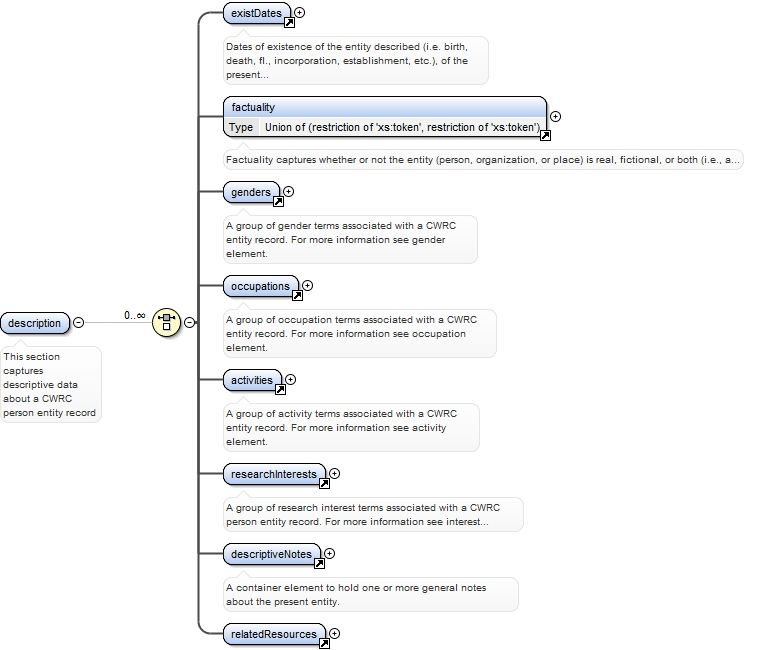
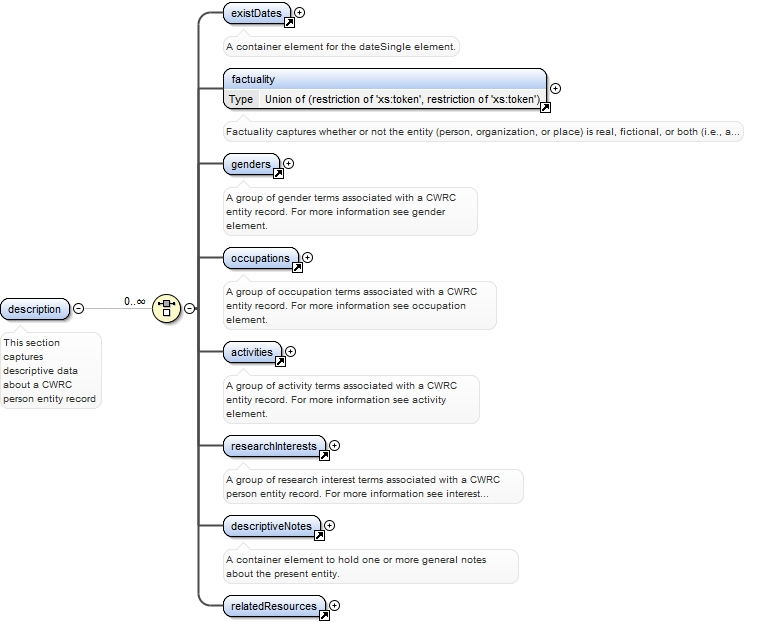
entities.rng interface annotation code changes [MRB]

Changed region(s): [[0.2399, 0.0, 0.9596, 1.0], [0.0, 0.4582, 0.1199, 0.672], [0.1799, 0.4582, 0.2399, 0.5193]]

diff --git a/schemas/documentation/entities/index.html b/schemas/documentation/entities/index.html
@@ -2280,7 +2280,21 @@ var modelBoxes= new Array('model_cwrc',
                                  </tr>
                                  <tr>
                                     <td class="firstColumn">enumeration</td>
-                                    <td width="30%"><b>ceww:earlyWomenWriter</b></td>
+                                    <td width="30%"><b>critic</b></td>
+                                    <td>
+                                       <div class="annotation"></div>
+                                    </td>
+                                 </tr>
+                                 <tr>
+                                    <td class="firstColumn">enumeration</td>
+                                    <td width="30%"><b>canwwr:creator</b></td>
+                                    <td>
+                                       <div class="annotation"></div>
+                                    </td>
+                                 </tr>
+                                 <tr>
+                                    <td class="firstColumn">enumeration</td>
+                                    <td width="30%"><b>canwwr:critic</b></td>
                                     <td>
                                        <div class="annotation"></div>
                                     </td>
@@ -2309,20 +2323,6 @@ var modelBoxes= new Array('model_cwrc',
                                  <tr>
                                     <td class="firstColumn">enumeration</td>
                                     <td width="30%"><b>orl:MW</b></td>
-                                    <td>
-                                       <div class="annotation"></div>
-                                    </td>
-                                 </tr>
-                                 <tr>
-                                    <td class="firstColumn">enumeration</td>
-                                    <td width="30%"><b>canwwr:creator</b></td>
-                                    <td>
-                                       <div class="annotation"></div>
-                                    </td>
-                                 </tr>
-                                 <tr>
-                                    <td class="firstColumn">enumeration</td>
-                                    <td width="30%"><b>canwwr:critic</b></td>
                                     <td>
                                        <div class="annotation"></div>
                                     </td>
@@ -2364,13 +2364,13 @@ var modelBoxes= new Array('model_cwrc',
     </span><span class="tEl">&lt;xs:restriction</span><span class="tAN"> base=</span><span class="tAV">"xs:token"</span><span class="tEl">&gt;</span><span class="tI">
       </span><span class="tEl">&lt;xs:enumeration</span><span class="tAN"> value=</span><span class="tAV">"creator"</span><span class="tEl">/&gt;</span><span class="tI">
       </span><span class="tEl">&lt;xs:enumeration</span><span class="tAN"> value=</span><span class="tAV">"writer"</span><span class="tEl">/&gt;</span><span class="tI">
-      </span><span class="tEl">&lt;xs:enumeration</span><span class="tAN"> value=</span><span class="tAV">"ceww:earlyWomenWriter"</span><span class="tEl">/&gt;</span><span class="tI">
+      </span><span class="tEl">&lt;xs:enumeration</span><span class="tAN"> value=</span><span class="tAV">"critic"</span><span class="tEl">/&gt;</span><span class="tI">
+      </span><span class="tEl">&lt;xs:enumeration</span><span class="tAN"> value=</span><span class="tAV">"canwwr:creator"</span><span class="tEl">/&gt;</span><span class="tI">
+      </span><span class="tEl">&lt;xs:enumeration</span><span class="tAN"> value=</span><span class="tAV">"canwwr:critic"</span><span class="tEl">/&gt;</span><span class="tI">
       </span><span class="tEl">&lt;xs:enumeration</span><span class="tAN"> value=</span><span class="tAV">"orl:BWW"</span><span class="tEl">/&gt;</span><span class="tI">
       </span><span class="tEl">&lt;xs:enumeration</span><span class="tAN"> value=</span><span class="tAV">"orl:IBW"</span><span class="tEl">/&gt;</span><span class="tI">
       </span><span class="tEl">&lt;xs:enumeration</span><span class="tAN"> value=</span><span class="tAV">"orl:IWW"</span><span class="tEl">/&gt;</span><span class="tI">
       </span><span class="tEl">&lt;xs:enumeration</span><span class="tAN"> value=</span><span class="tAV">"orl:MW"</span><span class="tEl">/&gt;</span><span class="tI">
-      </span><span class="tEl">&lt;xs:enumeration</span><span class="tAN"> value=</span><span class="tAV">"canwwr:creator"</span><span class="tEl">/&gt;</span><span class="tI">
-      </span><span class="tEl">&lt;xs:enumeration</span><span class="tAN"> value=</span><span class="tAV">"canwwr:critic"</span><span class="tEl">/&gt;</span><span class="tI">
     </span><span class="tEl">&lt;/xs:restriction&gt;</span><span class="tI">
   </span><span class="tEl">&lt;/xs:simpleType&gt;</span><span class="tI">
 </span><span class="tEl">&lt;/xs:element&gt;</span></pre></td>
@@ -5055,13 +5055,13 @@ var modelBoxes= new Array('model_cwrc',
                         <td class="diagram">
                            <div id="diagram_personDescription-element_description" style="display:block"><img alt="Diagram" border="0" src="img/entities_xsd_Element_description_2.jpeg" usemap="#entities_xsd_Element_description_2" /><map name="entities_xsd_Element_description_2" id="entities_xsd_Element_description_2">
                                  <area alt="index.tmp#existDates" href="index.html#existDates" coords="223,2,305,27" />
-                                 <area alt="index.tmp#factuality" href="index.html#factuality" coords="223,96,561,140" />
-                                 <area alt="index.tmp#genders" href="index.html#genders" coords="223,181,294,206" />
-                                 <area alt="index.tmp#occupations" href="index.html#occupations" coords="223,275,313,300" />
-                                 <area alt="index.tmp#activities" href="index.html#activities" coords="223,369,296,394" />
-                                 <area alt="index.tmp#researchInterests" href="index.html#researchInterests" coords="223,463,340,488" />
-                                 <area alt="index.tmp#descriptiveNotes" href="index.html#descriptiveNotes" coords="223,543,335,568" />
-                                 <area alt="index.tmp#relatedResources" href="index.html#relatedResources" coords="223,623,340,648" /></map></div>
+                                 <area alt="index.tmp#factuality" href="index.html#factuality" coords="223,68,561,112" />
+                                 <area alt="index.tmp#genders" href="index.html#genders" coords="223,153,294,178" />
+                                 <area alt="index.tmp#occupations" href="index.html#occupations" coords="223,247,313,272" />
+                                 <area alt="index.tmp#activities" href="index.html#activities" coords="223,341,296,366" />
+                                 <area alt="index.tmp#researchInterests" href="index.html#researchInterests" coords="223,435,340,460" />
+                                 <area alt="index.tmp#descriptiveNotes" href="index.html#descriptiveNotes" coords="223,515,335,540" />
+                                 <area alt="index.tmp#relatedResources" href="index.html#relatedResources" coords="223,595,340,620" /></map></div>
                         </td>
                      </tr>
                      <tr>
@@ -5183,8 +5183,7 @@ var modelBoxes= new Array('model_cwrc',
                               <div class="annotation">
                                  <table style="table-layout:fixed;white-space:pre-wrap;white-space:-moz-pre-wrap;white-space:-pre-wrap;white-space: -o-pre-wrap;word-wrap: break-word;_white-space:pre;" class="preWrapContainer">
                                     <tr>
-                                       <td width="100%"><pre><span class="tT">Dates of existence of the entity described (i.e. birth, death, fl., </span><span class="tI">
-</span><span class="tT">incorporation, establishment, etc.), of the present entity.</span></pre></td>
+                                       <td width="100%"><pre><span class="tT">A container element for the dateSingle element.</span></pre></td>
                                     </tr>
                                  </table>
                               </div>
@@ -5272,7 +5271,7 @@ var modelBoxes= new Array('model_cwrc',
                                  <tr>
                                     <td width="100%"><pre><span class="tEl">&lt;xs:element</span><span class="tAN"> name=</span><span class="tAV">"existDates"</span><span class="tEl">&gt;</span><span class="tI">
   </span><span class="tEl">&lt;xs:annotation</span><span class="tEl">&gt;</span><span class="tI">
-    </span><span class="tEl">&lt;xs:documentation</span><span class="tEl">&gt;</span><span class="tT" style="white-space:normal">Dates of existence of the entity described (i.e. birth, death, fl., incorporation, establishment, etc.), of the present entity.</span><span class="tEl">&lt;/xs:documentation&gt;</span><span class="tI">
+    </span><span class="tEl">&lt;xs:documentation</span><span class="tEl">&gt;</span><span class="tT" style="white-space:normal">A container element for the dateSingle element.</span><span class="tEl">&lt;/xs:documentation&gt;</span><span class="tI">
   </span><span class="tEl">&lt;/xs:annotation&gt;</span><span class="tI">
   </span><span class="tEl">&lt;xs:complexType</span><span class="tEl">&gt;</span><span class="tI">
     </span><span class="tEl">&lt;xs:sequence</span><span class="tEl">&gt;</span><span class="tI">
@@ -5322,7 +5321,8 @@ var modelBoxes= new Array('model_cwrc',
                               <div class="annotation">
                                  <table style="table-layout:fixed;white-space:pre-wrap;white-space:-moz-pre-wrap;white-space:-pre-wrap;white-space: -o-pre-wrap;word-wrap: break-word;_white-space:pre;" class="preWrapContainer">
                                     <tr>
-                                       <td width="100%"><pre><span class="tT">Captures a date associated with the entity record or entity instance.</span></pre></td>
+                                       <td width="100%"><pre><span class="tT">If known, enter dates of existence (i.e. birth,</span><span class="tI">
+</span><span class="tT">death, flourish, establishment, or dissolution), of the present entity.</span></pre></td>
                                     </tr>
                                  </table>
                               </div>
@@ -5457,7 +5457,7 @@ var modelBoxes= new Array('model_cwrc',
                                  <tr>
                                     <td width="100%"><pre><span class="tEl">&lt;xs:element</span><span class="tAN"> name=</span><span class="tAV">"dateSingle"</span><span class="tAN"> type=</span><span class="tAV">"date-pattern"</span><span class="tEl">&gt;</span><span class="tI">
   </span><span class="tEl">&lt;xs:annotation</span><span class="tEl">&gt;</span><span class="tI">
-    </span><span class="tEl">&lt;xs:documentation</span><span class="tEl">&gt;</span><span class="tT" style="white-space:normal">Captures a date associated with the entity record or entity instance.</span><span class="tEl">&lt;/xs:documentation&gt;</span><span class="tI">
+    </span><span class="tEl">&lt;xs:documentation</span><span class="tEl">&gt;</span><span class="tT" style="white-space:normal">If known, enter dates of existence (i.e. birth, death, flourish, establishment, or dissolution), of the present entity.</span><span class="tEl">&lt;/xs:documentation&gt;</span><span class="tI">
   </span><span class="tEl">&lt;/xs:annotation&gt;</span><span class="tI">
 </span><span class="tEl">&lt;/xs:element&gt;</span></pre></td>
                                  </tr>
@@ -5502,7 +5502,7 @@ var modelBoxes= new Array('model_cwrc',
                               <div class="annotation">
                                  <table style="table-layout:fixed;white-space:pre-wrap;white-space:-moz-pre-wrap;white-space:-pre-wrap;white-space: -o-pre-wrap;word-wrap: break-word;_white-space:pre;" class="preWrapContainer">
                                     <tr>
-                                       <td width="100%"><pre><span class="tT">Captures a date in ISO standard format.</span></pre></td>
+                                       <td width="100%"><pre><span class="tT">Captures a date of existence in ISO standard format.</span></pre></td>
                                     </tr>
                                  </table>
                               </div>
@@ -5604,7 +5604,7 @@ var modelBoxes= new Array('model_cwrc',
                                  <tr>
                                     <td width="100%"><pre><span class="tEl">&lt;xs:element</span><span class="tAN"> name=</span><span class="tAV">"standardDate"</span><span class="tEl">&gt;</span><span class="tI">
   </span><span class="tEl">&lt;xs:annotation</span><span class="tEl">&gt;</span><span class="tI">
-    </span><span class="tEl">&lt;xs:documentation</span><span class="tEl">&gt;</span><span class="tT" style="white-space:normal">Captures a date in ISO standard format.</span><span class="tEl">&lt;/xs:documentation&gt;</span><span class="tI">
+    </span><span class="tEl">&lt;xs:documentation</span><span class="tEl">&gt;</span><span class="tT" style="white-space:normal">Captures a date of existence in ISO standard format.</span><span class="tEl">&lt;/xs:documentation&gt;</span><span class="tI">
   </span><span class="tEl">&lt;/xs:annotation&gt;</span><span class="tI">
   </span><span class="tEl">&lt;xs:complexType</span><span class="tEl">&gt;</span><span class="tI">
     </span><span class="tEl">&lt;xs:simpleContent</span><span class="tEl">&gt;</span><span class="tI">
@@ -5695,7 +5695,7 @@ var modelBoxes= new Array('model_cwrc',
                               <div class="annotation">
                                  <table style="table-layout:fixed;white-space:pre-wrap;white-space:-moz-pre-wrap;white-space:-pre-wrap;white-space: -o-pre-wrap;word-wrap: break-word;_white-space:pre;" class="preWrapContainer">
                                     <tr>
-                                       <td width="100%"><pre><span class="tT">Captures a date in prose format.</span></pre></td>
+                                       <td width="100%"><pre><span class="tT">Captures a date of existence in prose format.</span></pre></td>
                                     </tr>
                                  </table>
                               </div>
@@ -5758,7 +5758,7 @@ var modelBoxes= new Array('model_cwrc',
                                  <tr>
                                     <td width="100%"><pre><span class="tEl">&lt;xs:element</span><span class="tAN"> name=</span><span class="tAV">"textDate"</span><span class="tAN"> type=</span><span class="tAV">"xs:string"</span><span class="tEl">&gt;</span><span class="tI">
   </span><span class="tEl">&lt;xs:annotation</span><span class="tEl">&gt;</span><span class="tI">
-    </span><span class="tEl">&lt;xs:documentation</span><span class="tEl">&gt;</span><span class="tT" style="white-space:normal">Captures a date in prose format.</span><span class="tEl">&lt;/xs:documentation&gt;</span><span class="tI">
+    </span><span class="tEl">&lt;xs:documentation</span><span class="tEl">&gt;</span><span class="tT" style="white-space:normal">Captures a date of existence in prose format.</span><span class="tEl">&lt;/xs:documentation&gt;</span><span class="tI">
   </span><span class="tEl">&lt;/xs:annotation&gt;</span><span class="tI">
 </span><span class="tEl">&lt;/xs:element&gt;</span></pre></td>
                                  </tr>
@@ -8111,7 +8111,7 @@ var modelBoxes= new Array('model_cwrc',
                            <div class="floatRight"><input id="button_diagram_orgRecordInfo-element_recordInfo" type="image" src="img/btM.gif" value="-" onclick="switchState('diagram_orgRecordInfo-element_recordInfo');" class="control" /></div>
                         </td>
                         <td class="diagram">
-                           <div id="diagram_orgRecordInfo-element_recordInfo" style="display:block"><img alt="Diagram" border="0" src="img/entities_xsd_Element_recordInfo.jpeg" usemap="#entities_xsd_Element_recordInfo" /><map name="entities_xsd_Element_recordInfo" id="entities_xsd_Element_recordInfo">
+                           <div id="diagram_orgRecordInfo-element_recordInfo" style="display:block"><img alt="Diagram" border="0" src="img/entities_xsd_Element_recordInfo_1.jpeg" usemap="#entities_xsd_Element_recordInfo_1" /><map name="entities_xsd_Element_recordInfo_1" id="entities_xsd_Element_recordInfo_1">
                                  <area alt="index.tmp#orgTypes" href="index.html#orgTypes" coords="220,2,297,27" />
                                  <area alt="index.tmp#originInfo" href="index.html#originInfo" coords="220,82,295,107" />
                                  <area alt="index.tmp#entityId" href="index.html#entityId" coords="220,176,513,220" />
@@ -8529,9 +8529,9 @@ var modelBoxes= new Array('model_cwrc',
                         <td class="diagram">
                            <div id="diagram_orgDescription-element_description" style="display:block"><img alt="Diagram" border="0" src="img/entities_xsd_Element_description_1.jpeg" usemap="#entities_xsd_Element_description_1" /><map name="entities_xsd_Element_description_1" id="entities_xsd_Element_description_1">
                                  <area alt="index.tmp#existDates" href="index.html#existDates" coords="223,2,305,27" />
-                                 <area alt="index.tmp#factuality" href="index.html#factuality" coords="223,96,561,140" />
-                                 <area alt="index.tmp#descriptiveNotes" href="index.html#descriptiveNotes" coords="223,181,335,206" />
-                                 <area alt="index.tmp#relatedResources" href="index.html#relatedResources" coords="223,261,340,286" /></map></div>
+                                 <area alt="index.tmp#factuality" href="index.html#factuality" coords="223,68,561,112" />
+                                 <area alt="index.tmp#descriptiveNotes" href="index.html#descriptiveNotes" coords="223,153,335,178" />
+                                 <area alt="index.tmp#relatedResources" href="index.html#relatedResources" coords="223,233,340,258" /></map></div>
                         </td>
                      </tr>
                      <tr>
@@ -8807,7 +8807,7 @@ var modelBoxes= new Array('model_cwrc',
                            <div class="floatRight"><input id="button_diagram_placeRecordInfo-element_recordInfo" type="image" src="img/btM.gif" value="-" onclick="switchState('diagram_placeRecordInfo-element_recordInfo');" class="control" /></div>
                         </td>
                         <td class="diagram">
-                           <div id="diagram_placeRecordInfo-element_recordInfo" style="display:block"><img alt="Diagram" border="0" src="img/entities_xsd_Element_recordInfo_1.jpeg" usemap="#entities_xsd_Element_recordInfo_1" /><map name="entities_xsd_Element_recordInfo_1" id="entities_xsd_Element_recordInfo_1">
+                           <div id="diagram_placeRecordInfo-element_recordInfo" style="display:block"><img alt="Diagram" border="0" src="img/entities_xsd_Element_recordInfo.jpeg" usemap="#entities_xsd_Element_recordInfo" /><map name="entities_xsd_Element_recordInfo" id="entities_xsd_Element_recordInfo">
                                  <area alt="index.tmp#placeTypes" href="index.html#placeTypes" coords="220,2,307,27" />
                                  <area alt="index.tmp#originInfo" href="index.html#originInfo" coords="220,68,295,93" />
                                  <area alt="index.tmp#entityId" href="index.html#entityId" coords="220,162,513,206" />
@@ -9234,19 +9234,19 @@ var modelBoxes= new Array('model_cwrc',
                         <td class="diagram">
                            <div id="diagram_placeDescription-element_description" style="display:block"><img alt="Diagram" border="0" src="img/entities_xsd_Element_description.jpeg" usemap="#entities_xsd_Element_description" /><map name="entities_xsd_Element_description" id="entities_xsd_Element_description">
                                  <area alt="index.tmp#existDates" href="index.html#existDates" coords="223,2,305,27" />
-                                 <area alt="index.tmp#factuality" href="index.html#factuality" coords="223,96,561,140" />
-                                 <area alt="index.tmp#latitude" href="index.html#latitude" coords="223,181,503,225" />
-                                 <area alt="index.tmp#longitude" href="index.html#longitude" coords="223,280,503,324" />
-                                 <area alt="index.tmp#featureClass" href="index.html#featureClass" coords="223,379,561,423" />
-                                 <area alt="index.tmp#featureCodeLabel" href="index.html#featureCodeLabel" coords="223,478,340,522" />
-                                 <area alt="index.tmp#countryName" href="index.html#countryName" coords="223,591,328,635" />
-                                 <area alt="index.tmp#firstAdministrativeDivision" href="index.html#firstAdministrativeDivision" coords="223,690,378,734" />
-                                 <area alt="index.tmp#secondAdministrativeDivision" href="index.html#secondAdministrativeDivision" coords="223,789,395,833" />
-                                 <area alt="index.tmp#elevation" href="index.html#elevation" coords="223,888,500,932" />
-                                 <area alt="index.tmp#averageElevation" href="index.html#averageElevation" coords="223,987,500,1031" />
-                                 <area alt="index.tmp#timeZoneOffset" href="index.html#timeZoneOffset" coords="223,1086,503,1130" />
-                                 <area alt="index.tmp#descriptiveNotes" href="index.html#descriptiveNotes" coords="223,1185,335,1210" />
-                                 <area alt="index.tmp#relatedResources" href="index.html#relatedResources" coords="223,1265,340,1290" /></map></div>
+                                 <area alt="index.tmp#factuality" href="index.html#factuality" coords="223,68,561,112" />
+                                 <area alt="index.tmp#latitude" href="index.html#latitude" coords="223,153,503,197" />
+                                 <area alt="index.tmp#longitude" href="index.html#longitude" coords="223,252,503,296" />
+                                 <area alt="index.tmp#featureClass" href="index.html#featureClass" coords="223,351,561,395" />
+                                 <area alt="index.tmp#featureCodeLabel" href="index.html#featureCodeLabel" coords="223,450,340,494" />
+                                 <area alt="index.tmp#countryName" href="index.html#countryName" coords="223,563,328,607" />
+                                 <area alt="index.tmp#firstAdministrativeDivision" href="index.html#firstAdministrativeDivision" coords="223,662,378,706" />
+                                 <area alt="index.tmp#secondAdministrativeDivision" href="index.html#secondAdministrativeDivision" coords="223,761,395,805" />
+                                 <area alt="index.tmp#elevation" href="index.html#elevation" coords="223,860,500,904" />
+                                 <area alt="index.tmp#averageElevation" href="index.html#averageElevation" coords="223,959,500,1003" />
+                                 <area alt="index.tmp#timeZoneOffset" href="index.html#timeZoneOffset" coords="223,1058,503,1102" />
+                                 <area alt="index.tmp#descriptiveNotes" href="index.html#descriptiveNotes" coords="223,1157,335,1182" />
+                                 <area alt="index.tmp#relatedResources" href="index.html#relatedResources" coords="223,1237,340,1262" /></map></div>
                         </td>
                      </tr>
                      <tr>
